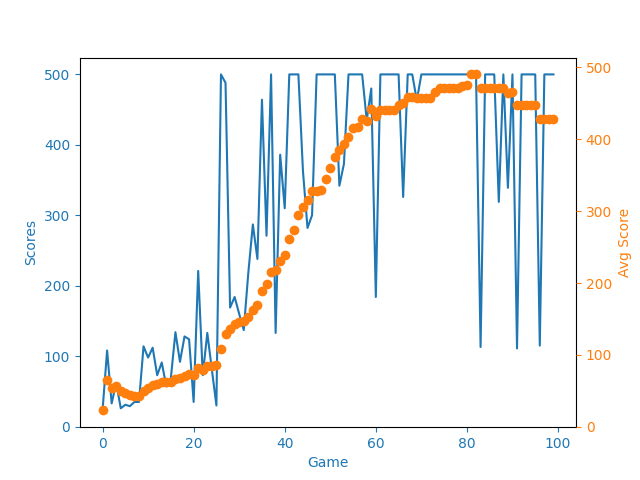
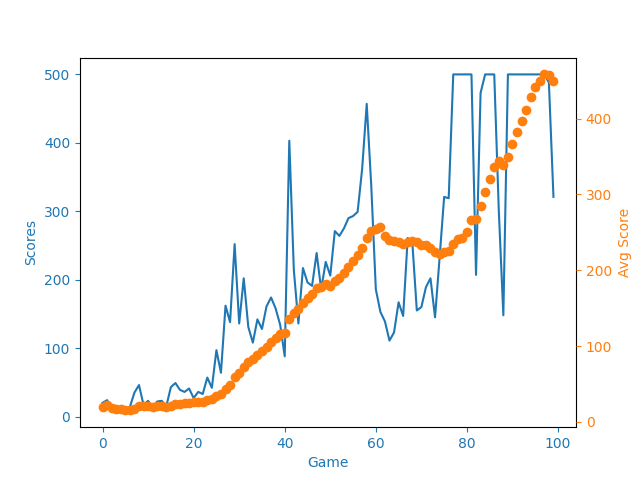
Fix GaussianPolicy sampling

diff --git a/RL/Gymnasium/Mini projects/PPO/Discrete_action_space/Cartpole/models.py b/RL/Gymnasium/Mini projects/PPO/Discrete_action_space/Cartpole/models.py
@@ -218,10 +218,8 @@ class GaussianPolicy(nn.Module):
 
         #  Optimizer
         self.optimizer = T.optim.Adam(self.parameters(), lr=self.lr)
-        self.scheduler = T.optim.lr_scheduler.LambdaLR(
-            self.optimizer,
-            lr_lambda=lambda epoch: max(0.999 ** epoch, (self.min_lr / self.lr))
-        )
+        self.scheduler = T.optim.lr_scheduler.CosineAnnealingLR(self.optimizer, T_max=1000, eta_min=self.min_lr)
+
 
         #  Device selection
         self.device = T.device('cuda:0' if T.cuda.is_available() else 'cuda:1')
@@ -234,8 +232,8 @@ class GaussianPolicy(nn.Module):
 
     def forward(self, obs):
         state = T.tensor(obs, dtype=T.float32, device=self.device)
-        x = self.fc1(state)
-        x = self.fc2(x)
+        x = F.relu(self.fc1(state))
+        x = F.relu(self.fc2(x))
 
         mean = self.mean_linear(x)
         log_std = self.log_std_linear(x)
@@ -253,15 +251,15 @@ class GaussianPolicy(nn.Module):
         y_t = T.tanh(probs)
 
         action = y_t * self.action_scale + self.action_bias
-        log_probs = dist.log_prob(probs).to(self.device)
+        log_probs = dist.log_prob(probs).sum(dim=-1).to(self.device) # Sum across action dimensions
 
         log_probs -= T.log(self.action_scale * (1 - y_t.pow(2)) + EPSILON)
 
         log_probs = log_probs.sum()
 
-        mean = T.tanh(mu) * self.action_scale + self.action_bias
+        mean = mu * self.action_scale + self.action_bias # The mean of a Gaussian distribution doesn’t need rescaling.
 
-        return action, log_probs, mean
+        return action, log_probs, mu # Use mu directly, not tanh(mu)
 
     def lr_decay(self):
         self.scheduler.step()

diff --git a/RL/Gymnasium/Mini projects/PPO/Discrete_action_space/Cartpole/main.py b/RL/Gymnasium/Mini projects/PPO/Discrete_action_space/Cartpole/main.py
@@ -3,9 +3,9 @@ from Train import train
 from Test import test
 
 if __name__ == '__main__':
-    env = gym.make('CartPole-v1', render_mode='human')
+    env = gym.make('CartPole-v1', render_mode=None)
 
 
-    # train(save_model=True, plot_name='Cartpole PPO ', environement=env)
-    #
-    test(env)
+    train(save_model=True, plot_name='Cartpole PPO ', environement=env)
+
+    # test(env)
